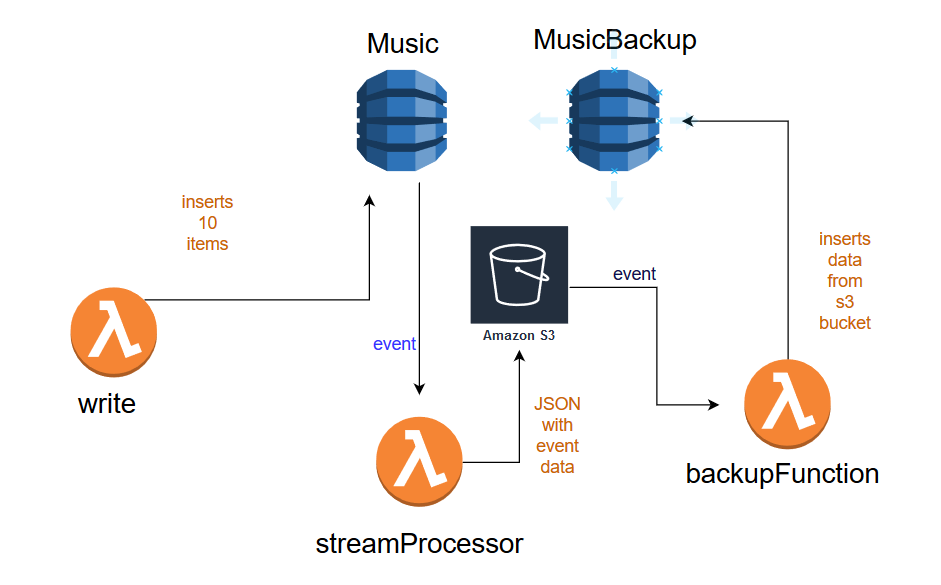
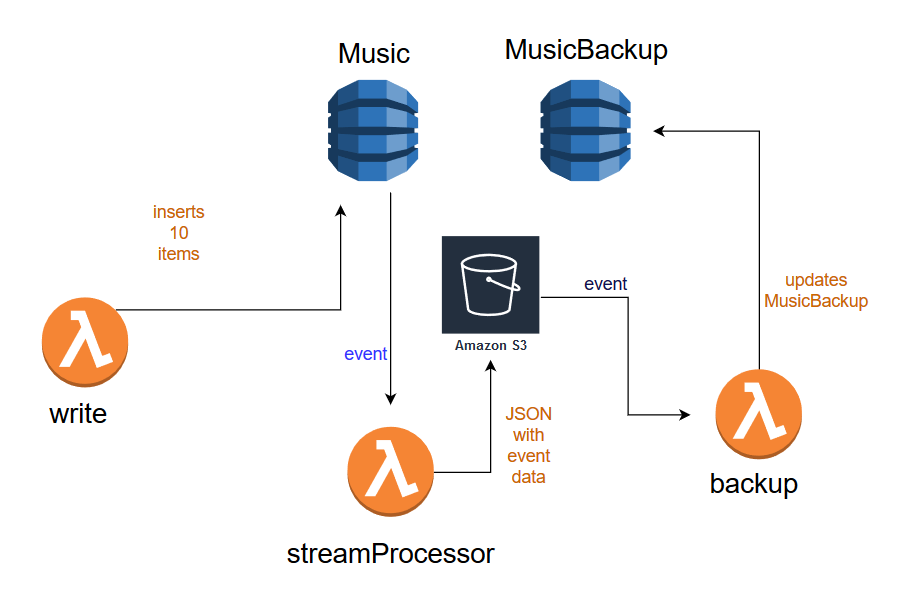
updated README

diff --git a/README.md b/README.md
@@ -1,3 +1,11 @@
 ## Simple-AWS-Service
 
+### How it works
+- 1 write function inserts items in the Music table
+- 2 Music table sends event stream to streamProssesor function
+- 3 streamProcessor saves the stream in S3 bucket as a json file : data.json
+- 4 S3 bucket sends event stream to backup function
+- 5 backup is now fetching the data.json from the S3 bucket and parses the data
+- 6 after the parsing the backup function updates the MusicBackup table with any changes
+
 <img src="./diagram.png" alt="Project img"/>
